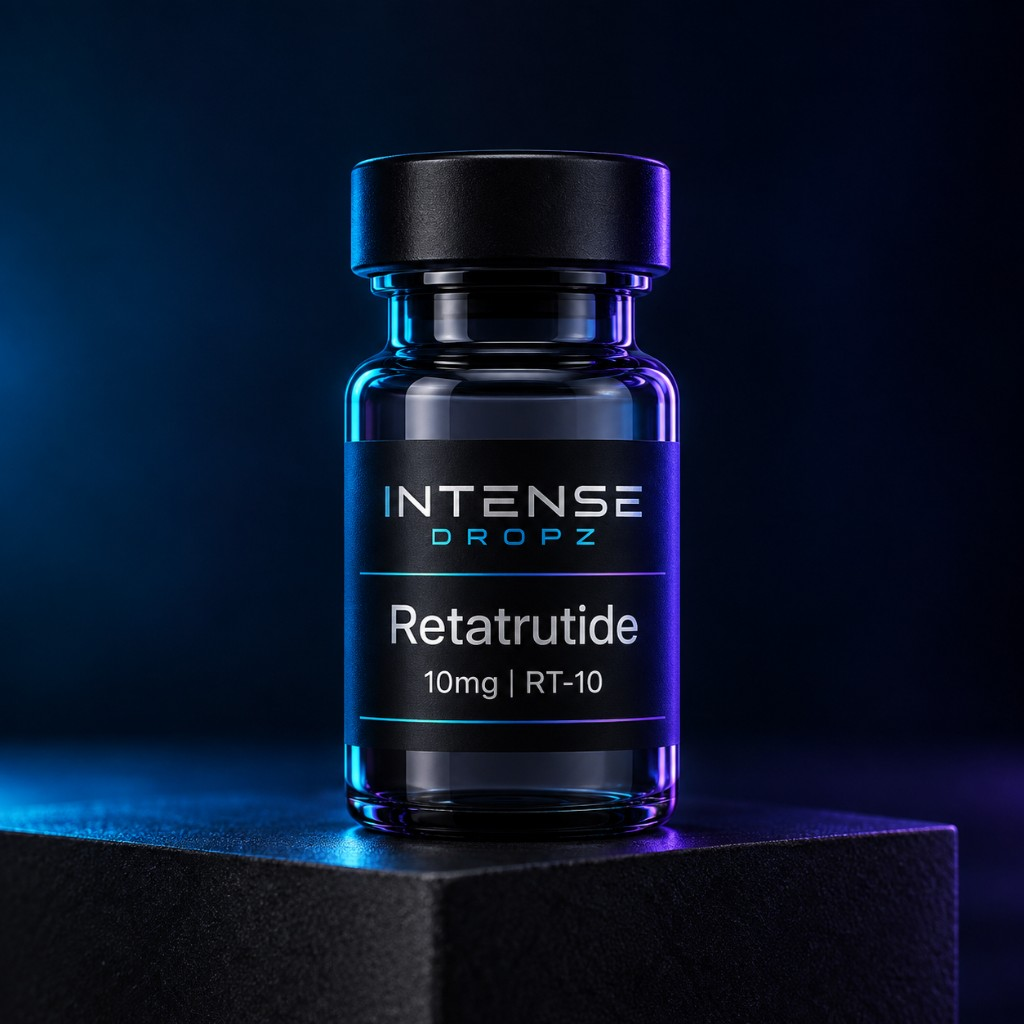
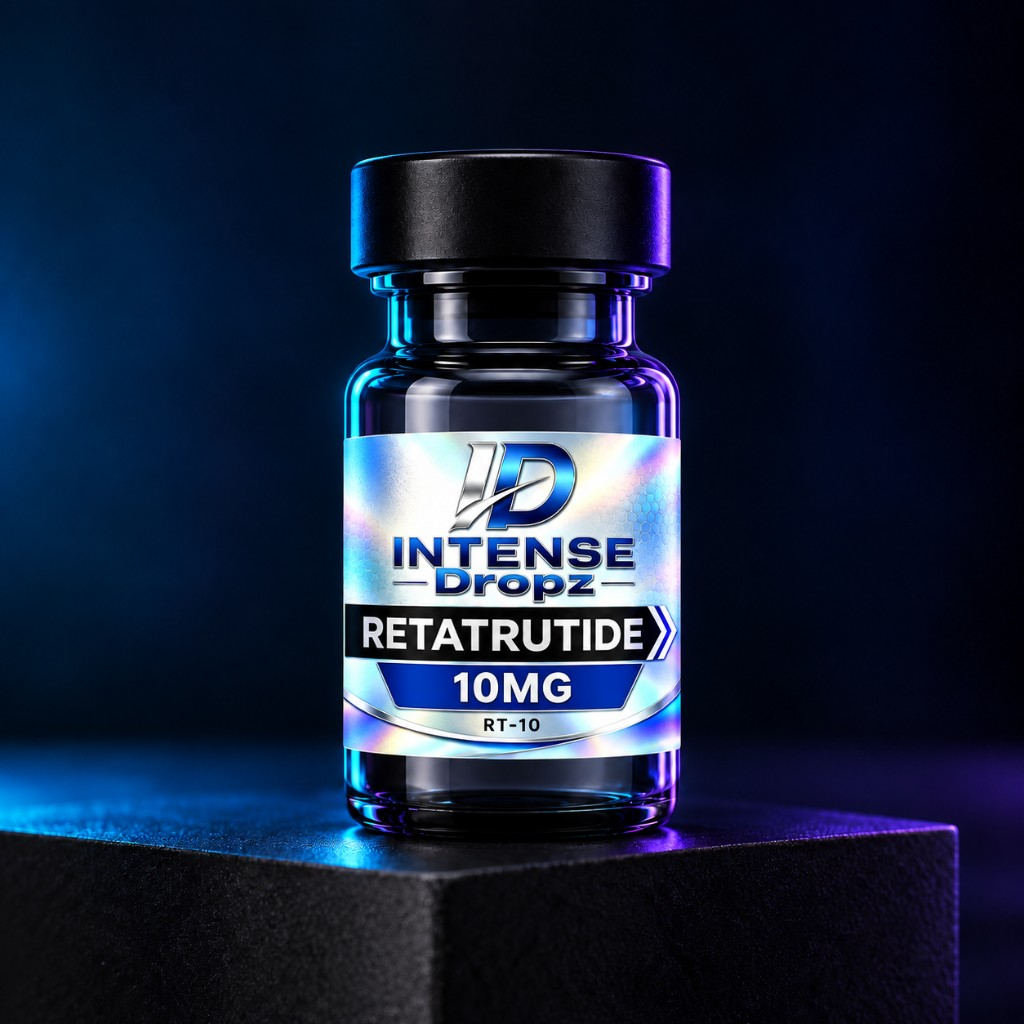
Remove pricing page and polish About and home content.
Drop about hero and owner placeholder; update Retatrutide product image; trim nav and featured copy.

diff --git a/src/components/about/AboutPageContent.tsx b/src/components/about/AboutPageContent.tsx
@@ -42,51 +42,17 @@ export function AboutPageContent({
 
   return (
     <>
-      <section className="about-hero-band relative -mt-[4.5rem] w-full max-w-full overflow-hidden border-b border-white/[0.06]">
-        <div className="relative min-h-[min(52svh,520px)] sm:min-h-[min(58svh,580px)]">
-          <Image
-            src="/images/feature-luxury-lab.jpg"
-            alt=""
-            fill
-            className="object-cover object-[75%_center] sm:object-[right_center]"
-            priority
-            sizes="100vw"
-          />
-          <div
-            className="absolute inset-0 bg-gradient-to-r from-black/92 via-black/55 via-45% to-black/25"
-            aria-hidden
-          />
-          <div
-            className="absolute inset-0 bg-gradient-to-t from-black/75 via-transparent to-black/35"
-            aria-hidden
-          />
+      <section className="mx-auto w-full min-w-0 max-w-7xl px-4 py-10 sm:px-6 sm:py-14 lg:px-8 lg:py-16">
+        <header className="mb-10 max-w-2xl border-b border-white/[0.08] pb-8">
+          <h1 className="font-display text-3xl font-bold text-white sm:text-4xl">
+            About <span className="text-accent">{BRAND.name}</span>
+          </h1>
+          <p className="mt-3 text-sm leading-relaxed text-white/60 sm:text-base">
+            Premium research products for {BRAND.market} — clarity, consistency, and a refined
+            shopping experience.
+          </p>
+        </header>
 
-          <div className="relative mx-auto flex min-h-[min(52svh,520px)] w-full min-w-0 max-w-7xl flex-col justify-center px-4 py-16 pt-[5.5rem] sm:min-h-[min(58svh,580px)] sm:px-6 sm:py-20 lg:px-8">
-            <div className="w-full min-w-0 max-w-2xl">
-              <p className="text-[10px] font-semibold uppercase tracking-[0.28em] text-white/85 sm:text-[11px] sm:tracking-[0.38em]">
-                {BRAND.name}
-              </p>
-
-              <h1 className="mt-4 font-display text-[clamp(2rem,8vw,4.25rem)] font-black uppercase leading-[0.92] tracking-[-0.02em] break-words">
-                <span className="text-white">About </span>
-                <span className="text-accent">Intense Dropz</span>
-              </h1>
-
-              <div className="mt-5 h-[3px] w-12 rounded-sm bg-accent shadow-[0_0_18px_rgba(0,245,255,0.55)]" />
-
-              <p className="mt-6 text-lg font-semibold leading-snug text-white sm:text-xl">
-                Premium research products. Elevated experience.
-              </p>
-              <p className="mt-3 max-w-xl text-sm leading-relaxed text-white/60 sm:text-base">
-                A refined online destination built for peptide research customers who expect
-                clarity, consistency, and a premium experience.
-              </p>
-            </div>
-          </div>
-        </div>
-      </section>
-
-      <section className="mx-auto w-full min-w-0 max-w-7xl px-4 py-14 sm:px-6 lg:px-8 lg:py-20">
         <div className="grid gap-12 lg:grid-cols-[1.05fr_0.95fr] lg:items-start">
           <div className="space-y-8">
             <div>
@@ -104,24 +70,12 @@ export function AboutPageContent({
               </p>
             </div>
 
-            {showOwnerBlock ? (
+            {showOwnerBlock && (
               <div className="rounded-2xl border border-accent/25 bg-accent/[0.06] p-6 sm:p-8">
                 <p className="text-xs font-semibold uppercase tracking-[0.25em] text-accent">
                   From the owner
                 </p>
                 <div className="prose-policy mt-4 text-white/75">{ownerMessage}</div>
-              </div>
-            ) : (
-              <div className="rounded-2xl border border-amber-500/25 bg-amber-500/[0.06] p-6 sm:p-8">
-                <p className="text-xs font-semibold uppercase tracking-[0.25em] text-amber-200/90">
-                  Owner story — coming soon
-                </p>
-                <p className="mt-4 text-sm leading-relaxed text-white/65">
-                  Add your approved brand story, mission, and standards in{" "}
-                  <span className="text-white/85">Admin → Settings → About content</span>. We
-                  intentionally avoid placeholder history or credentials until you supply verified
-                  copy.
-                </p>
               </div>
             )}
 

diff --git a/src/app/admin/(dashboard)/settings/page.tsx b/src/app/admin/(dashboard)/settings/page.tsx
@@ -33,17 +33,6 @@ export default async function AdminSettingsPage() {
           <textarea name="homeIntro" defaultValue={settings.homeIntro} rows={3} className="w-full rounded-xl border border-border bg-surface px-3 py-2 text-sm" />
         </fieldset>
         <fieldset className="glass-panel space-y-3 rounded-2xl p-6">
-          <legend className="px-2 font-semibold text-white">Pricing page range</legend>
-          <label className="flex items-center gap-2 text-sm">
-            <input type="checkbox" name="pricingRangeApproved" defaultChecked={settings.pricingRangeApproved} />
-            Show approved range on /pricing
-          </label>
-          <div className="grid gap-3 sm:grid-cols-2">
-            <input name="pricingRangeMinCAD" type="number" step="0.01" placeholder="Min CAD" defaultValue={settings.pricingRangeMinCAD ?? ""} className="rounded-xl border border-border bg-surface px-3 py-2 text-sm" />
-            <input name="pricingRangeMaxCAD" type="number" step="0.01" placeholder="Max CAD" defaultValue={settings.pricingRangeMaxCAD ?? ""} className="rounded-xl border border-border bg-surface px-3 py-2 text-sm" />
-          </div>
-        </fieldset>
-        <fieldset className="glass-panel space-y-3 rounded-2xl p-6">
           <legend className="px-2 font-semibold text-white">Checkout & shipping</legend>
           <label className="flex items-center gap-2 text-sm">
             <input type="checkbox" name="checkoutEnabled" defaultChecked={settings.checkoutEnabled} />

diff --git a/src/app/(store)/page.tsx b/src/app/(store)/page.tsx
@@ -58,9 +58,6 @@ export default async function HomePage() {
           <div className="mb-8 flex items-end justify-between gap-4">
             <div>
               <h2 className="font-display text-3xl font-semibold text-white">Featured products</h2>
-              <p className="mt-2 text-sm text-muted">
-                Published catalog items appear here. Add and publish products in admin when ready.
-              </p>
             </div>
             <Link href="/shop" className="hidden items-center gap-1 text-sm text-accent sm:inline-flex">
               View shop <ArrowRight className="h-4 w-4" />

diff --git a/scripts/seed-products.ts b/scripts/seed-products.ts
@@ -72,11 +72,7 @@ async function main() {
 
     const existing = await Product.findOne({ slug: item.slug });
     if (existing) {
-      const update = { ...payload };
-      if (item.imageFile === "rt-10.jpg" && existing.images?.[0]) {
-        update.images = existing.images as string[];
-      }
-      await Product.updateOne({ _id: existing._id }, { $set: update });
+      await Product.updateOne({ _id: existing._id }, { $set: payload });
       console.log("Updated:", item.title);
     } else {
       await Product.create(payload);

diff --git a/scripts/catalog-products.ts b/scripts/catalog-products.ts
@@ -164,11 +164,9 @@ export const CATALOG_PRODUCTS: CatalogProduct[] = [
   },
 ];
 
-/**
- * Cursor asset filename fragment → catalog imageFile.
- * Retatrutide (rt-10.jpg) is intentionally omitted — keep existing hero-style image.
- */
+/** Cursor asset filename fragment → catalog imageFile */
 export const ASSET_IMAGE_MAP: Record<string, string> = {
+  "image-6dc3bbcf": "rt-10.jpg",
   "image-27c770c6": "tsm10.jpg",
   "image-f551d7e5": "nj500.jpg",
   "image-0741e952": "nj1000.jpg",

diff --git a/src/app/(store)/layout.tsx b/src/app/(store)/layout.tsx
@@ -17,7 +17,7 @@ export default async function StoreLayout({ children }: { children: React.ReactN
   return (
     <>
       <SiteHeader cartCount={cartCount} />
-      <main className="page-width flex-1 pt-[4.5rem] [&:has(.about-hero-band)]:pt-0 [&:has(.home-hero-root)]:pt-0">
+      <main className="page-width flex-1 pt-[4.5rem] [&:has(.home-hero-root)]:pt-0">
         {children}
       </main>
       <SiteFooter />

diff --git a/src/components/layout/SiteFooter.tsx b/src/components/layout/SiteFooter.tsx
@@ -8,7 +8,6 @@ const exploreLinks = [
   { href: "/", label: "Home" },
   { href: "/shop", label: "Shop" },
   { href: "/about", label: "About" },
-  { href: "/pricing", label: "Pricing" },
   { href: "/calculator", label: "Calculator" },
   { href: "/contact", label: "Contact" },
 ];

diff --git a/src/components/layout/SiteHeader.tsx b/src/components/layout/SiteHeader.tsx
@@ -11,7 +11,6 @@ const links = [
   { href: "/", label: "Home" },
   { href: "/shop", label: "Shop" },
   { href: "/about", label: "About" },
-  { href: "/pricing", label: "Pricing" },
   { href: "/calculator", label: "Calculator" },
   { href: "/contact", label: "Contact" },
 ];

diff --git a/src/app/admin/actions.ts b/src/app/admin/actions.ts
@@ -312,6 +312,5 @@ async function saveSiteSettings(formData: FormData) {
     entityType: "site_settings",
   });
   revalidatePath("/");
-  revalidatePath("/pricing");
   return { ok: true as const };
 }

diff --git a/src/app/sitemap.ts b/src/app/sitemap.ts
@@ -9,7 +9,6 @@ export default async function sitemap(): Promise<MetadataRoute.Sitemap> {
     "",
     "/shop",
     "/about",
-    "/pricing",
     "/calculator",
     "/contact",
     "/cart",
